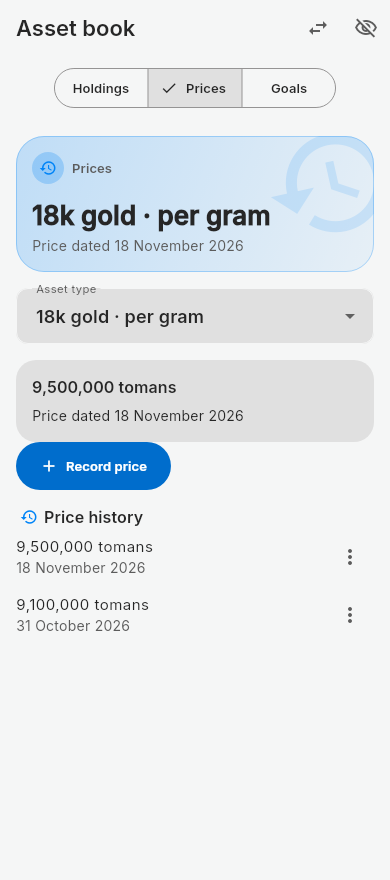
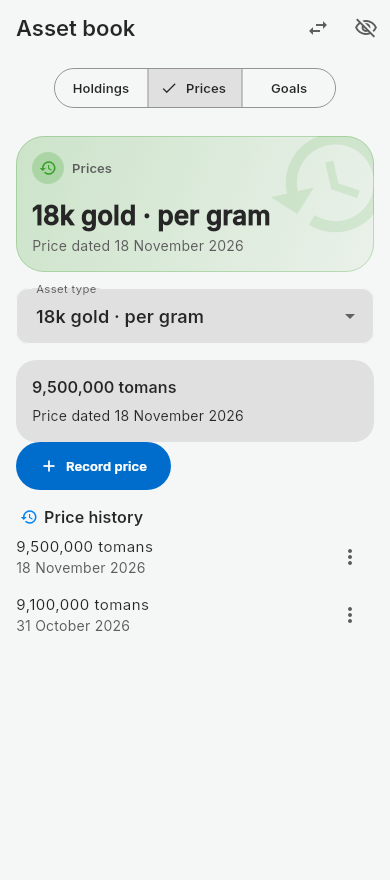
2.8.4: Asset book registered, reviewed and available
Registered in nexModules with its own hue. Persian in the formal register
the app uses; currencies named in their title and picker, amounts with
their code.

Claude-Session: https://claude.ai/code/session_01Hj5WohDj1r2cz24gKXJdh2

Changed region(s): [[0.0308, 0.1534, 0.7077, 0.3068], [0.7077, 0.1534, 0.9846, 0.2761]]

diff --git a/apps/client/lib/modules/assets/strings.dart b/apps/client/lib/modules/assets/strings.dart
@@ -105,28 +105,28 @@ const assetStrings = NexModuleStrings(
   },
   fa: {
     'title': 'دفتر دارایی',
-    'tagline': 'داراییهایت، با واحدی که برات معنا دارد',
-    'about': 'طلا، سکه و ارز را با قیمتهایی که خودت ثبت میکنی، در یک دفتر خصوصی نگه دار.',
+    'tagline': 'داراییهایتان، با واحدی که برایتان معنا دارد',
+    'about': 'طلا، سکه و ارز را با قیمتهایی که خودتان ثبت میکنید، در یک دفتر خصوصی نگه دارید.',
     'point1': 'طلا، سکه، ارز و داراییهای دیگر',
     'point2': 'ثبت دستی قیمت و تاریخچه',
     'point3': 'ارزش به گرم طلا و دلار',
-    'point4': 'پوشیده تا وقتی خودت بازش کنی',
+    'point4': 'پوشیده تا وقتی خودتان بازش کنید',
     'book': 'داراییها',
     'prices': 'قیمتها',
     'goals': 'هدفها',
-    'privateTitle': 'دفترت پوشیده است',
+    'privateTitle': 'دفتر پوشیده است',
     'privateHint':
-        'هر وقت آمادهای بازش کن. با خروج از برنامه دوباره پوشیده میشود.',
+        'هر وقت آماده بودید بازش کنید. با خروج از برنامه دوباره پوشیده میشود.',
     'reveal': 'نمایش داراییها',
     'hide': 'پنهانکردن داراییها',
     'securing': 'در حال فعالکردن محافظ صفحه…',
-    'secureError': 'محافظ صفحه فعال نشد. برای باز کردن دفتر دوباره تلاش کن.',
-    'loadError': 'دفتر باز نشد. دوباره تلاش کن.',
+    'secureError': 'محافظ صفحه فعال نشد. برای باز کردن دفتر دوباره تلاش کنید.',
+    'loadError': 'دفتر باز نشد. دوباره تلاش کنید.',
     'damaged': 'بعضی ثبتها باز نشدند. دادههایشان همچنان ذخیره است.',
-    'saveError': 'تغییر ذخیره نشد. دوباره تلاش کن.',
+    'saveError': 'تغییر ذخیره نشد. دوباره تلاش کنید.',
     'retry': 'تلاش دوباره',
     'save': 'ذخیره',
-    'invalid': 'مقدار و فیلدهای لازم را بررسی کن.',
+    'invalid': 'مقدار و فیلدهای لازم را بررسی کنید.',
     'cancel': 'لغو',
     'edit': 'ویرایش',
     'delete': 'حذف',
@@ -135,7 +135,7 @@ const assetStrings = NexModuleStrings(
     'deleted': 'ثبت حذف شد',
     'newHolding': 'افزودن دارایی',
     'editHolding': 'ویرایش دارایی',
-    'empty': 'با ثبت یک دارایی شروع کن. هر وقت خواستی ارزشش را ببینی، یک قیمت با تاریخ وارد کن.',
+    'empty': 'با ثبت یک دارایی شروع کنید. هر وقت خواستید ارزشش را ببینید، یک قیمت با تاریخ وارد کنید.',
     'assetType': 'نوع دارایی',
     'gold': 'طلا',
     'coin': 'سکه',
@@ -167,7 +167,7 @@ const assetStrings = NexModuleStrings(
     'netValue': 'ارزش برآوردی',
     'partial': 'ارزش داراییهای قیمتدار',
     'checkPrices': '{n} مورد از {total} دارایی قیمت دارد',
-    'noValuation': 'برای برآورد ارزش، قیمت وارد کن',
+    'noValuation': 'برای برآورد ارزش، قیمت وارد کنید',
     'gain': 'سود برآوردی',
     'loss': 'زیان برآوردی',
     'unchanged': 'ارزش برابر با هزینهٔ خرید',
@@ -176,7 +176,7 @@ const assetStrings = NexModuleStrings(
     'setRate': 'ثبت قیمت',
     'updated': 'قیمتِ {date}',
     'olderThanPurchase': 'تاریخ آخرین قیمت پیش از خرید است.',
-    'priceBasis': 'بر اساس قیمتهای ثبتشدهٔ خودت و وزن خالص و عیار طلا',
+    'priceBasis': 'بر اساس قیمتهای ثبتشدهٔ خودتان و وزن خالص و عیار طلا',
     'metalHint':
         'ارزش طلا با نرخ هر گرم ۱۸ عیار و متناسب با عیار قطعه حساب میشود.',
     'equivalents': 'معادل ارزش به طلا و دلار',
@@ -188,15 +188,16 @@ const assetStrings = NexModuleStrings(
     'quoteValue': 'قیمت هر واحد',
     'priceHistory': 'تاریخچهٔ قیمت',
     'noQuotes': 'هنوز برای این دارایی قیمتی ثبت نشده.',
-    'choosePrice': 'آخرین قیمت و تاریخچهٔ هر دارایی را اینجا ببین.',
+    'choosePrice': 'آخرین قیمت و تاریخچهٔ هر دارایی را اینجا ببینید.',
     'newGoal': 'افزودن هدف طلا',
     'editGoal': 'ویرایش هدف طلا',
-    'goalEmpty': 'مثلاً ۱۰ گرم را هدف بگذار و ببین چقدر طلای ثبتشده داری.',
+    'goalEmpty':
+        'مثلاً ۱۰ گرم را هدف بگذارید و ببینید چقدر طلای ثبتشده دارید.',
     'goalName': 'نام هدف',
     'target': 'هدف به گرم طلای ۱۸ عیار',
     'goalProgress': '{current} از {target} گرم',
     'goalLeft': '{n} گرم مانده',
-    'goalMet': 'به هدف رسیدی',
+    'goalMet': 'به هدف رسیدید',
     'goalWhy': 'پیشرفت بر اساس وزن و عیار طلای ثبتشده است. ارزش سکه و تغییر قیمتها در آن حساب نمیشود.',
     'toman': 'تومان',
     'rial': 'ریال',

diff --git a/apps/client/lib/modules/assets/presentation.dart b/apps/client/lib/modules/assets/presentation.dart
@@ -6,10 +6,36 @@ import 'model.dart';
 import 'money_format.dart';
 import 'strings.dart';
 
+/// The currencies people in Iran hold most, by name (2.8.4); any other is
+/// shown by its code.
+const _currencyNames = <String, (String, String)>{
+  'USD': ('US dollar', 'دلار آمریکا'),
+  'EUR': ('Euro', 'یورو'),
+  'GBP': ('British pound', 'پوند انگلیس'),
+  'AED': ('UAE dirham', 'درهم امارات'),
+  'TRY': ('Turkish lira', 'لیر ترکیه'),
+  'CNY': ('Chinese yuan', 'یوان چین'),
+  'IQD': ('Iraqi dinar', 'دینار عراق'),
+  'CAD': ('Canadian dollar', 'دلار کانادا'),
+  'AUD': ('Australian dollar', 'دلار استرالیا'),
+  'JPY': ('Japanese yen', 'ین ژاپن'),
+  'KWD': ('Kuwaiti dinar', 'دینار کویت'),
+  'CHF': ('Swiss franc', 'فرانک سوئیس'),
+  'RUB': ('Russian rouble', 'روبل روسیه'),
+  'AFN': ('Afghan afghani', 'افغانی'),
+};
+
+/// A currency's name in the page's language, or its code.
+String currencyName(BuildContext c, String code) {
+  final names = _currencyNames[code];
+  if (names == null) return code;
+  return NexModuleStrings.persian(c) ? names.$2 : names.$1;
+}
+
 String marketLabel(BuildContext c, AssetMarket m, {bool forQuote = false}) {
   if (m.custom) return m.name;
   return switch (m.type) {
-    AssetType.currency => m.code,
+    AssetType.currency => currencyName(c, m.code),
     AssetType.coin => assetStrings(c, m.code),
     AssetType.gold => assetStrings(c, forQuote ? 'metalRate' : 'gold'),
     AssetType.other => assetStrings(c, 'other'),

diff --git a/apps/client/test/module_preview_test.dart b/apps/client/test/module_preview_test.dart
@@ -24,7 +24,7 @@ void main() {
   );
   tearDown(() => harness.dispose());
 
-  test('all sixteen add-ons are available since 2.8.4; their code '
+  test('all seventeen add-ons are available since 2.8.4; their code '
       'stays', () {
     // Cycle; Pause, which is first-party; and the add-ons reviewed and turned
     // on since 2.4.0 — five more of them in 2.8.1.
@@ -46,6 +46,7 @@ void main() {
       'maintenance',
       'expenses',
       'price_lens',
+      'assets',
     };
     expect(nexAvailableModuleIds, {'cycle', 'pause', ...back});
     expect(reviewed, back);
@@ -55,7 +56,7 @@ void main() {
       moduleIds,
       containsAll(['prompt_studio', 'security_tools', 'cheques']),
     );
-    expect(moduleIds, hasLength(16));
+    expect(moduleIds, hasLength(17));
   });
 
   test(
@@ -71,8 +72,8 @@ void main() {
     },
   );
 
-  test('all modules default off, including the sixteen add-ons', () {
-    expect(moduleIds, hasLength(16));
+  test('all modules default off, including the seventeen add-ons', () {
+    expect(moduleIds, hasLength(17));
     expect(
       nexModules.whereType<NexStoredModule>().map((m) => m.id).toSet(),
       moduleIds,

diff --git a/apps/client/lib/modules/assets/currency_field.dart b/apps/client/lib/modules/assets/currency_field.dart
@@ -3,6 +3,7 @@ import 'package:nex_client/modules/module_api.dart';
 
 import 'currency_scales.dart';
 import 'module.dart';
+import 'presentation.dart' show currencyName;
 
 class CurrencyField extends StatelessWidget {
   const CurrencyField({
@@ -36,7 +37,11 @@ class CurrencyField extends StatelessWidget {
         if (code != 'IRR')
           DropdownMenuItem(
             value: code,
-            child: Text(code, textDirection: TextDirection.ltr),
+            child: Text(
+              currencyName(context, code) == code
+                  ? code
+                  : '${currencyName(context, code)} ($code)',
+            ),
           ),
     ],
     onChanged: onChanged == null

diff --git a/apps/client/test/modules/assets/widget_test.dart b/apps/client/test/modules/assets/widget_test.dart
@@ -252,8 +252,8 @@ void main() {
       await tap(t, find.text('Add holding'));
       await tap(t, find.text('Gold'));
       await tap(t, find.text('Currency').last);
-      await tap(t, find.text('USD'));
-      await tap(t, find.text('EUR').last);
+      await tap(t, find.text('US dollar (USD)'));
+      await tap(t, find.text('Euro (EUR)').last);
       await t.enterText(find.byType(TextField).first, '25.75');
       await t.enterText(find.byType(TextField).at(1), '120000');
       await tap(t, find.text('Save'));

diff --git a/apps/client/lib/modules/assets/screen_holdings.dart b/apps/client/lib/modules/assets/screen_holdings.dart
@@ -80,6 +80,8 @@ extension _HoldingsTab on _AssetsScreenState {
     final shownQty = switch (market.type) {
       AssetType.gold => s('goldQuantity', {'n': qty, 'fineness': h.fineness}),
       AssetType.coin => s('coinQuantity', {'n': qty}),
+      // «۴۵۰ USD»: the amount with its code, which reads in both languages.
+      AssetType.currency => '$qty ${market.code}',
       _ => qty,
     };
     return NexPanel(

diff --git a/apps/client/lib/modules/module_registry.dart b/apps/client/lib/modules/module_registry.dart
@@ -1,4 +1,5 @@
 import '../platform/nex_preferences.dart';
+import 'assets/module.dart';
 import 'converter/module.dart';
 import 'cheques/module.dart';
 import 'cycle_module.dart';
@@ -31,6 +32,7 @@ const List<NexModule> nexModules = [
   LentBorrowedModule(),
   ExpensesModule(),
   GoldModule(),
+  AssetsModule(),
   WordsModule(),
   ParkingModule(),
   MedicineModule(),

diff --git a/apps/client/lib/modules/module_hero.dart b/apps/client/lib/modules/module_hero.dart
@@ -45,6 +45,8 @@ const _moduleHues = <String, double>{
   'security_tools': 200,
   // 2.8.4: the sky it declares, between Parking and Lent & borrowed.
   'cheques': 222,
+  // 2.8.4: a money green between Habits and Price Lens.
+  'assets': 112,
 };
 
 /// The top of a module's home page: one large, calm statement of where things

diff --git a/apps/client/test/visual_audit_guards_test.dart b/apps/client/test/visual_audit_guards_test.dart
@@ -59,6 +59,8 @@ void main() {
         'occasions',
         'prompt_studio',
         'security_tools',
+        'cheques',
+        'assets',
       ];
       final accents = <String, Color>{};
       await tester.pumpWidget(

diff --git a/apps/client/lib/modules/module_rollout.dart b/apps/client/lib/modules/module_rollout.dart
@@ -41,6 +41,7 @@ const nexAvailableModuleIds = {
   'maintenance',
   'expenses',
   'price_lens',
+  'assets',
 };
 
 /// Windows, Linux and macOS. The modules are made for the phone; the desktop

diff --git a/apps/client/test/release_213_test.dart b/apps/client/test/release_213_test.dart
@@ -238,6 +238,7 @@ void main() {
         'maintenance',
         'expenses',
         'price_lens',
+        'assets',
       });
       expect(
         NexModuleAlarms.moduleId('a', 'b:c'),

diff --git a/apps/client/lib/modules/assets/README.md b/apps/client/lib/modules/assets/README.md
@@ -31,6 +31,17 @@ The module awaits platform registration and rollout review.
   weight and fineness. The amount remaining stays meaningful even while
   prices are missing.
 
+## Maintainer review (2.8.4)
+
+Registered (`nexModules`, hue 112 — a money green between Habits and Price
+Lens), reviewed and made available. Checked: whole-rial money with `BigInt`
+sums, gold valued as 18k rate × net grams × fineness ⁄ 750, edits keep
+unknown fields and refuse a conflicting body, the cover holds the secure
+window. Changes: the Persian speaks as the rest of Nex does («شما»: «دوباره
+تلاش کنید», «دفتر پوشیده است»); a currency is named («دلار آمریکا», «یورو»
+for the common ones, else its code) in its title and the picker, and its
+amount carries its code («۴۵۰ USD»).
+
 ## Records
 
 All data is stored with `NexModuleStore` in the module's own local storage.
